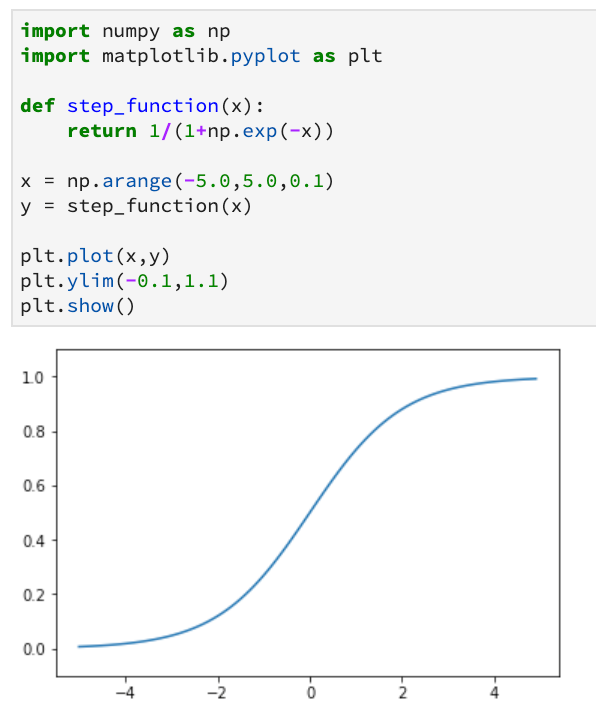
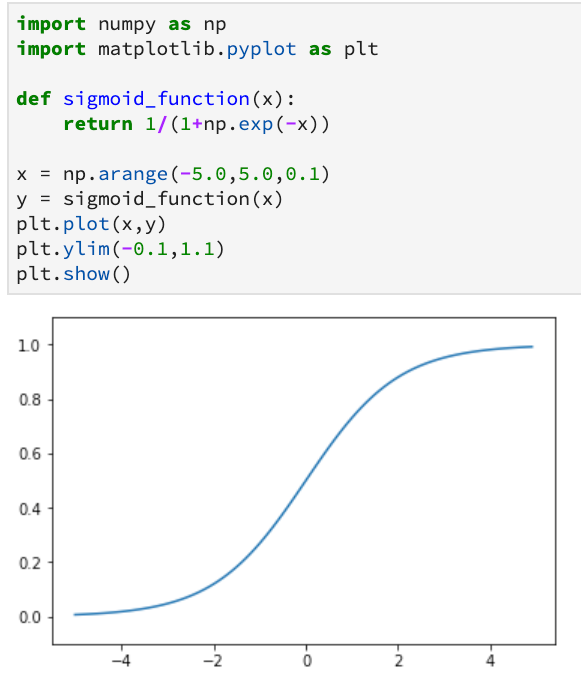
update

diff --git a/_posts/2021-02-08-Deep-learning-introduction-Section-Three.md b/_posts/2021-02-08-Deep-learning-introduction-Section-Three.md
@@ -158,11 +158,11 @@ def sigmoid(x):
 import numpy as np
 import matplotlib.pyplot as plt
 
-def step_function(x):
+def sigmoid_function(x):
     return 1/(1+np.exp(-x))
 
 x = np.arange(-5.0,5.0,0.1)
-y = step_function(x)
+y = sigmoid_function(x)
 
 plt.plot(x,y)
 plt.ylim(-0.1,1.1)
@@ -170,5 +170,24 @@ plt.show()
 ```
 执行结果如下：
 ![sigmoid函数图像](/img/sigmoid_function.png)
-	
+
+
+将他们放在一起做一个对比：
+```python
+import numpy as np
+import matplotlib.pyplot as plt
+
+def sigmoid_function(x):
+    return 1/(1+np.exp(-x))
+
+x = np.arange(-5.0,5.0,0.1)
+y = sigmoid_function(x)
+z = step_function(x)
+plt.plot(x,y)
+plt.plot(x,z,'--')
+plt.ylim(-0.1,1.1)
+plt.show()
+```
+
+![图像对比](/img/step_and_sigmoid_function.png)
 	
